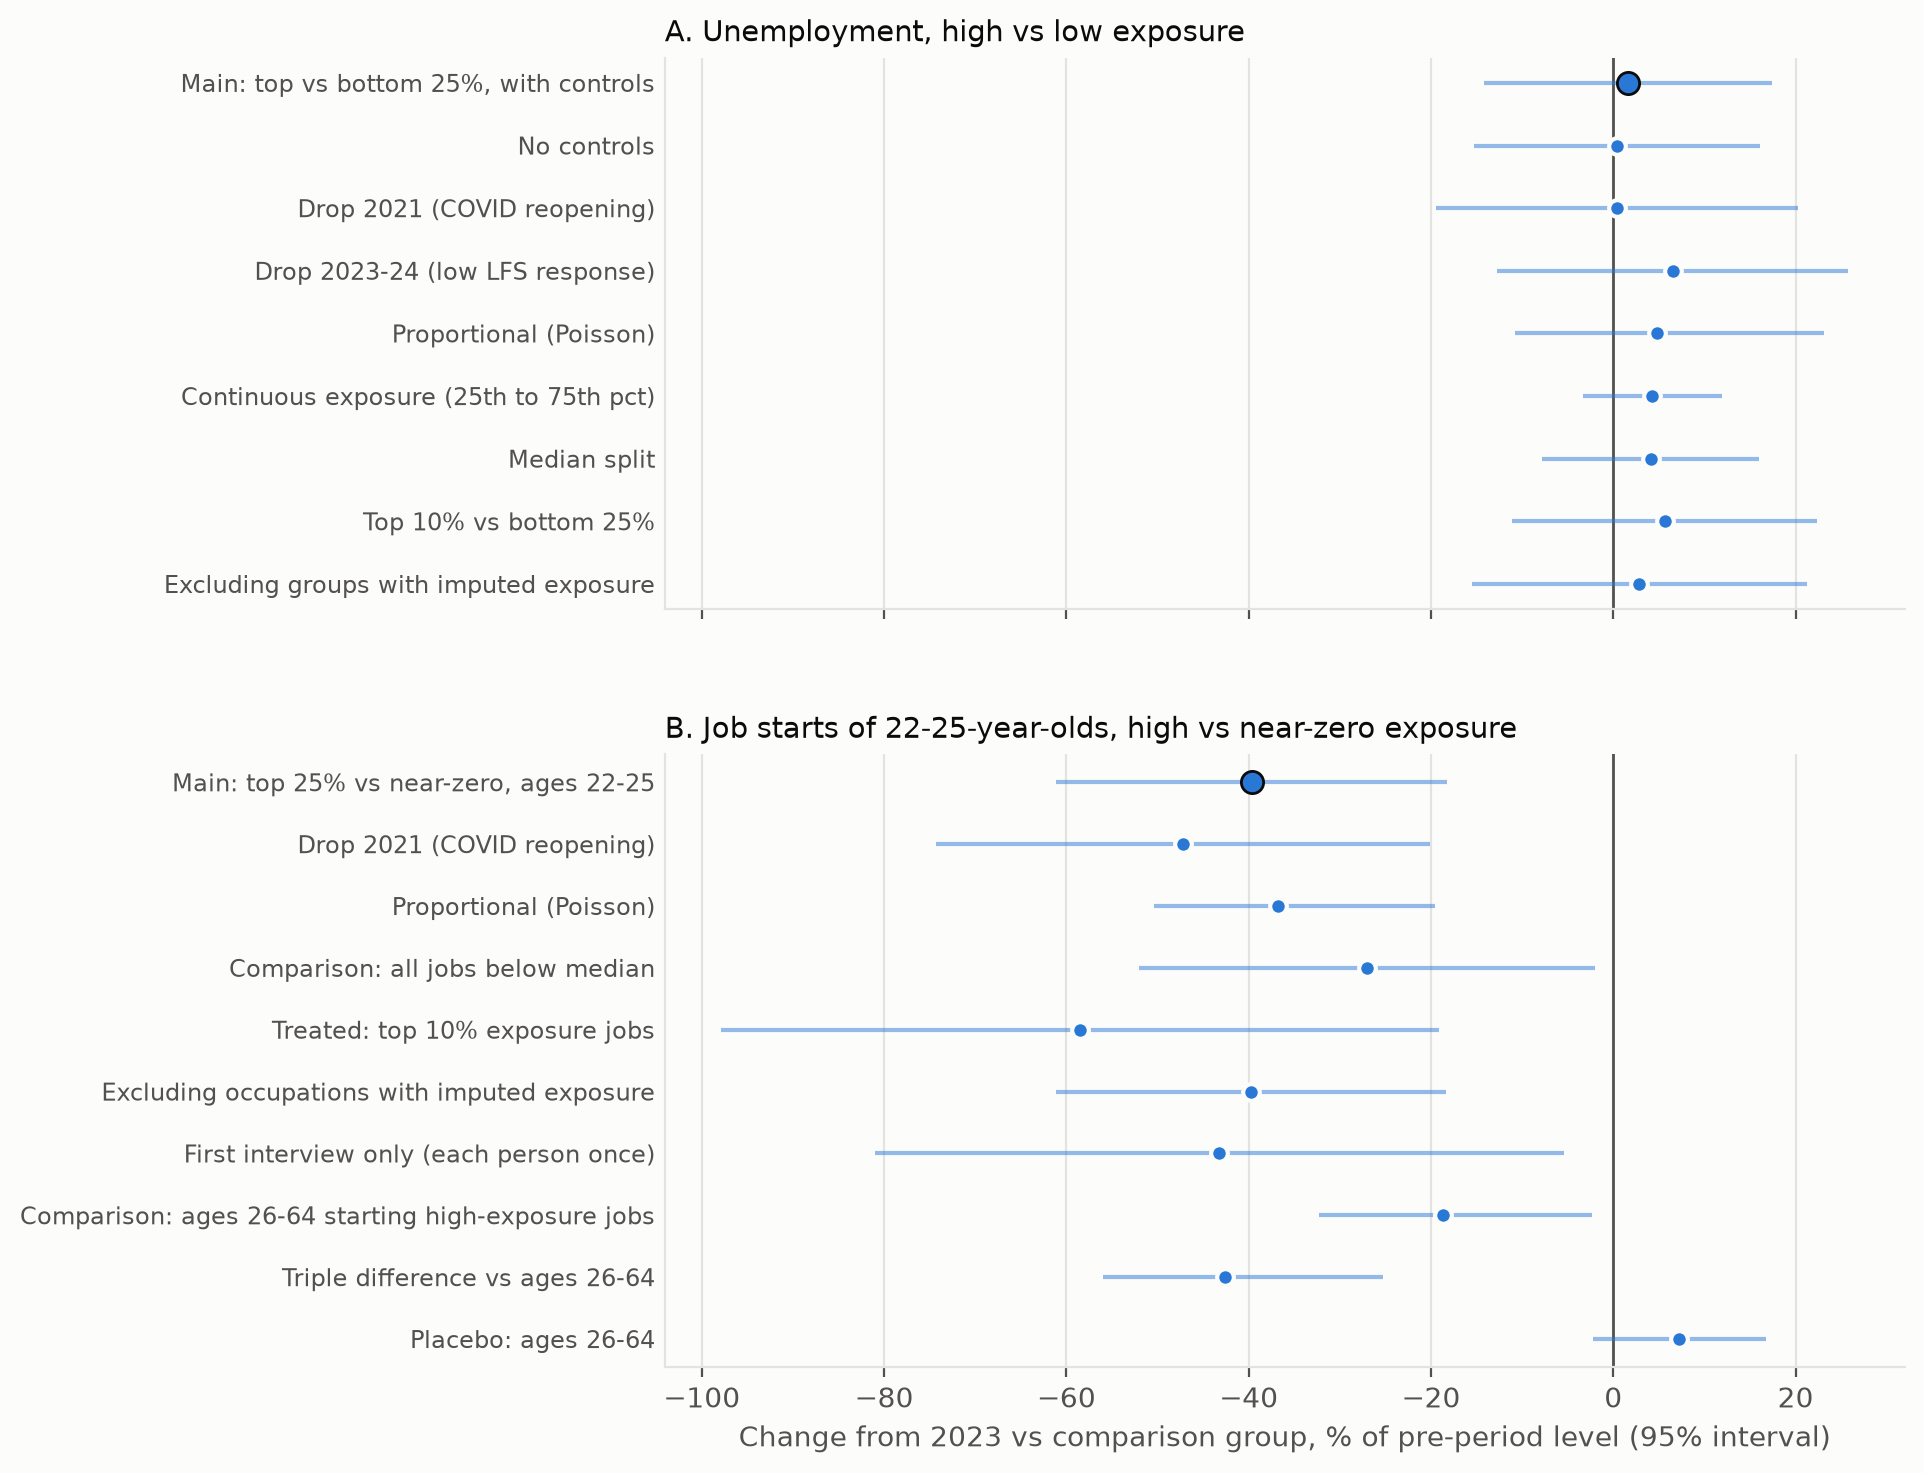
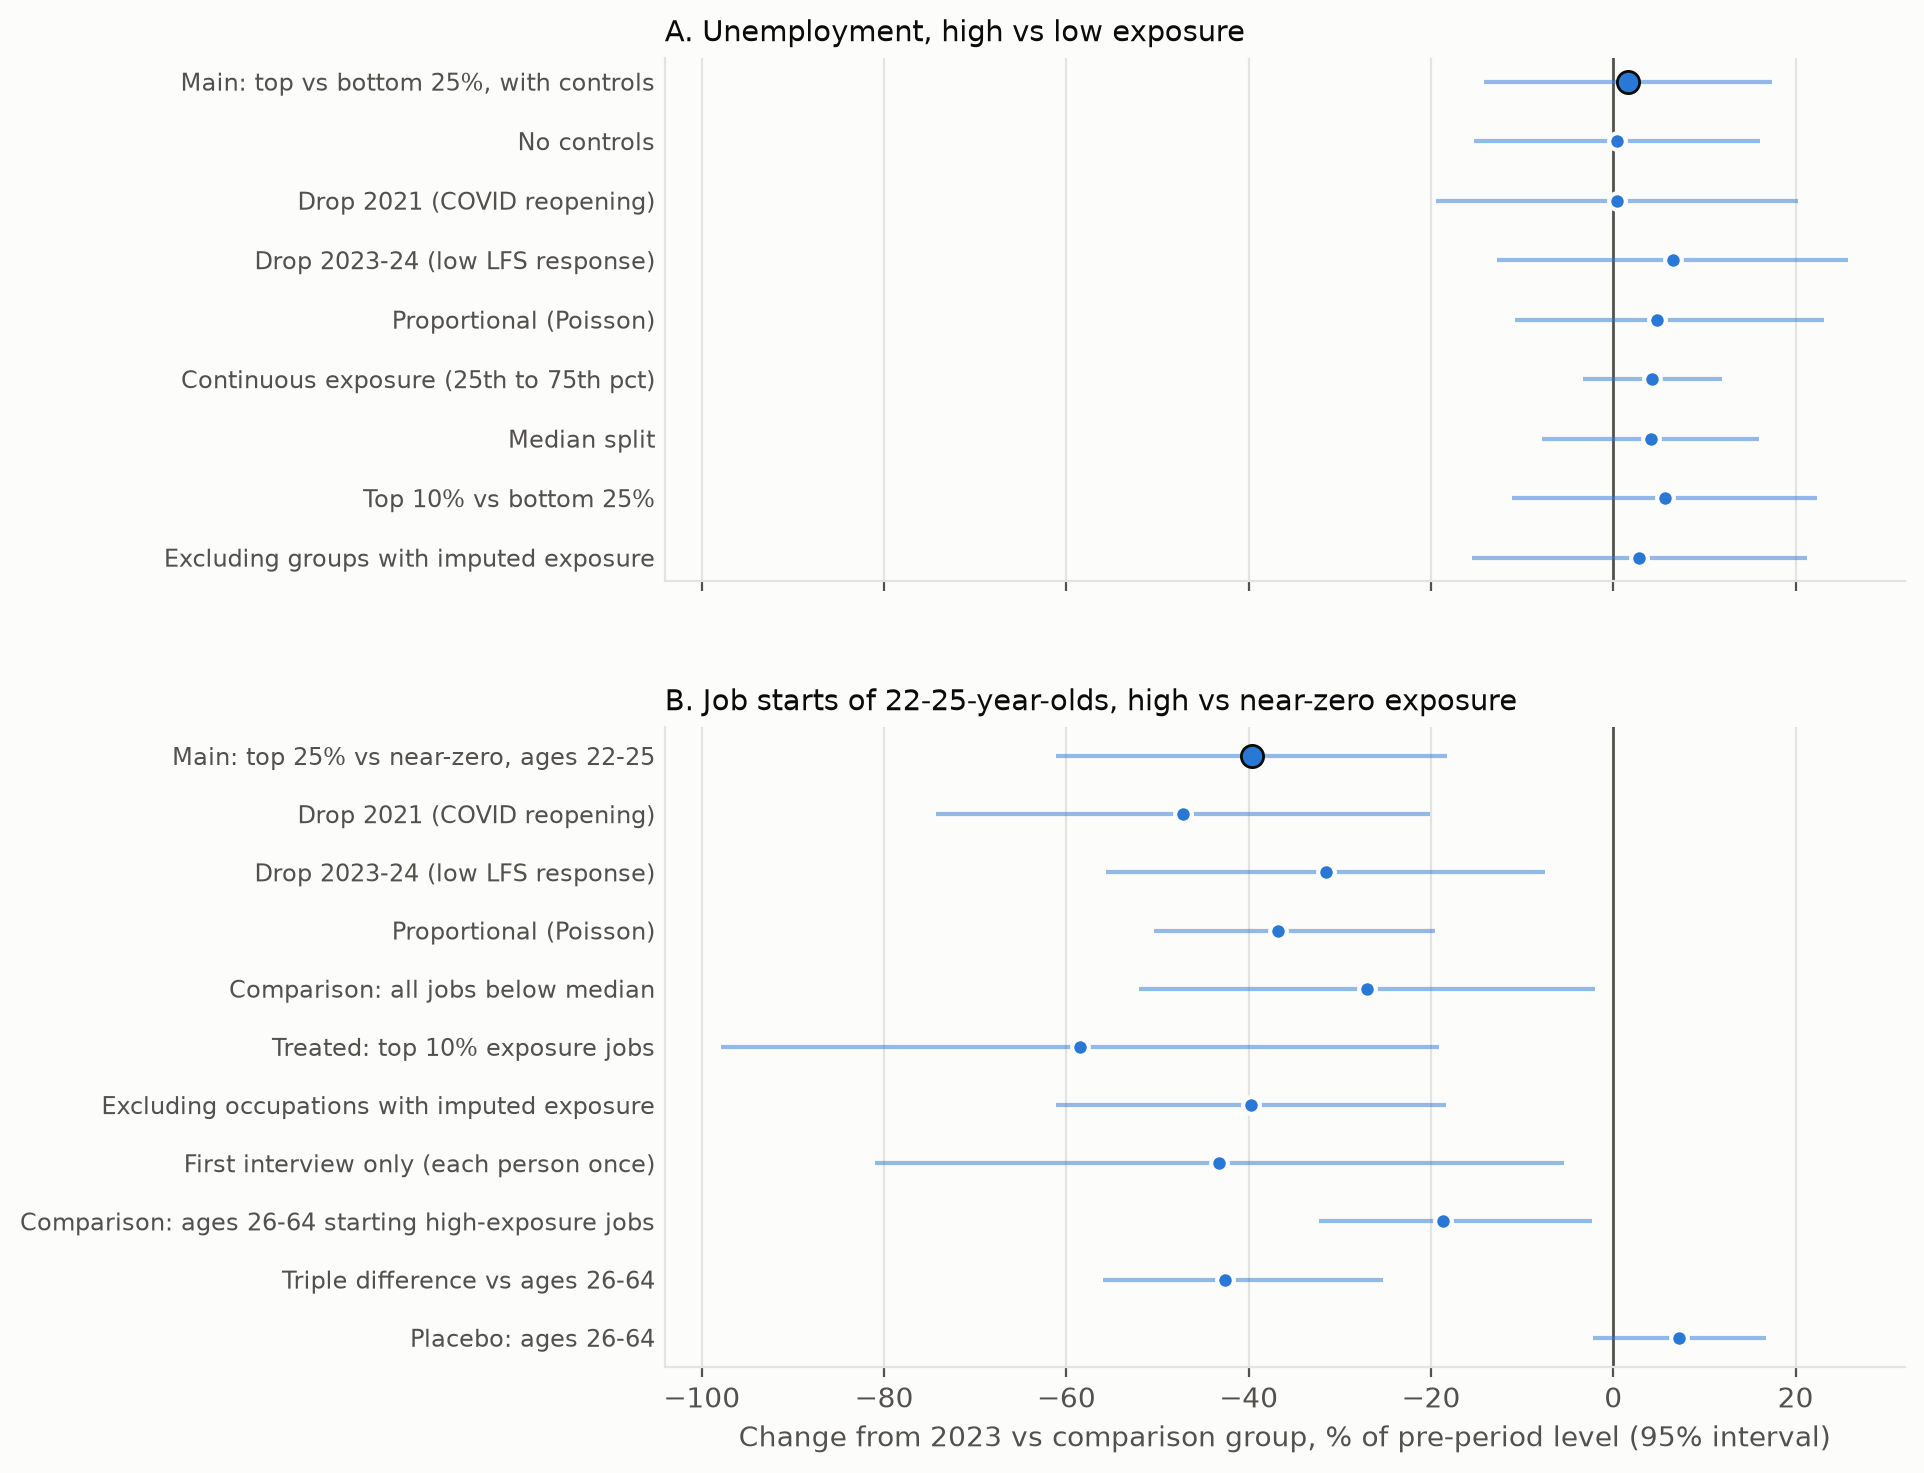
Add README, requirements, 2023-24 robustness check

diff --git a/src/07_robustness.py b/src/07_robustness.py
@@ -218,6 +218,7 @@ no_imp_u = lfs["imp_unit"].fillna(0) == 0
 rows = [
     entry_did(y, "Main: top 25% vs near-zero, ages 22-25"),
     entry_did(y[y["year"] >= 2022], "Drop 2021 (COVID reopening)"),
+        entry_did(y[~y["year"].isin([2023, 2024])], "Drop 2023-24 (low LFS response)"),
     entry_did(y, "Proportional (Poisson)", poisson=True),
     entry_did(entry_sample(22, 25, dest_lo=eu < p50u), "Comparison: all jobs below median"),
     entry_did(entry_sample(22, 25, dest_hi=eu >= p90u), "Treated: top 10% exposure jobs"),

diff --git a/README.md b/README.md
@@ -1,0 +1,38 @@
+# AI exposure and the UK labour market
+
+A UK replication of Massenkoff and McCrory (2026), "Labor market impacts of AI: A new measure and early evidence" (Anthropic). It maps Anthropic's observed-exposure measure onto UK SOC 2020 occupations and estimates effects on unemployment and young workers' job entry, using the Labour Force Survey from 2021Q1 to 2026Q2.
+
+## Preliminary findings
+
+- Unemployment in the most exposed quartile of occupations has not risen relative to the least exposed: +0.05 percentage points (95% CI -0.43 to +0.53).
+- Among 22-25-year-olds, starts into high-exposure jobs fell 0.89 points relative to starts into near-zero-exposure jobs (40% of the 2022 rate). Workers aged 26-64 show no change.
+- Most of the change is redirection: relative to older workers, young people's starts into near-zero-exposure jobs rose 41-113%. Migration and student jobs do not explain it.
+
+## Data
+
+- Exposure: Anthropic Economic Index, `labor_market_impacts/job_exposure.csv` (CC-BY 4.0), downloaded by `src/01_exposure.py`.
+- Crosswalks, saved in `data/external/`: BLS SOC 2010-2018 crosswalk, BLS ISCO-08 to SOC 2010 crosswalk, BLS OEWS May 2025 national file, ONS SOC 2010 to ISCO-08 concordance, ONS SOC 2020 to SOC 2010 relationship tables.
+- Labour Force Survey: quarterly End User Licence files from the UK Data Service (free registration). Not included in this repository. UK Data Service study numbers: 8806, 8826, 8872, 8915, 8957, 8999, 9027, 9052, 9097, 9131, 9225, 9226, 9264, 9297, 9323, 9349, 9388, 9433, 9480, 9522, 9569, 9607
+
+## How to run (Python 3.13, Windows)
+
+    python -m venv .venv
+    .venv\Scripts\Activate.ps1
+    pip install -r requirements.txt
+    python src/01_exposure.py
+    python src/02_crosswalk.py
+    python src/00_unzip_lfs.py
+    python src/03_build_lfs.py
+    python src/04_descriptives.py
+    python src/05_unemployment.py
+    python src/06_job_entry.py
+    python src/07_robustness.py
+    python src/07b_who_drives_entry.py
+
+Figures are written to `output/figures/` and tables to `output/tables/`. Only aggregate outputs are committed.
+
+## Licence and acknowledgements
+
+Code: MIT licence. Exposure data: Anthropic, CC-BY 4.0. Labour Force Survey: Office for National Statistics, distributed by the UK Data Service; Crown copyright. The original data creators, depositors or copyright holders, the funders of the data collections and the UK Data Service, and their agents, bear no responsibility for the further analysis or interpretation of the data.
+
+The code was written with assistance from Claude (Anthropic). The author ran all analyses and checked all results.
